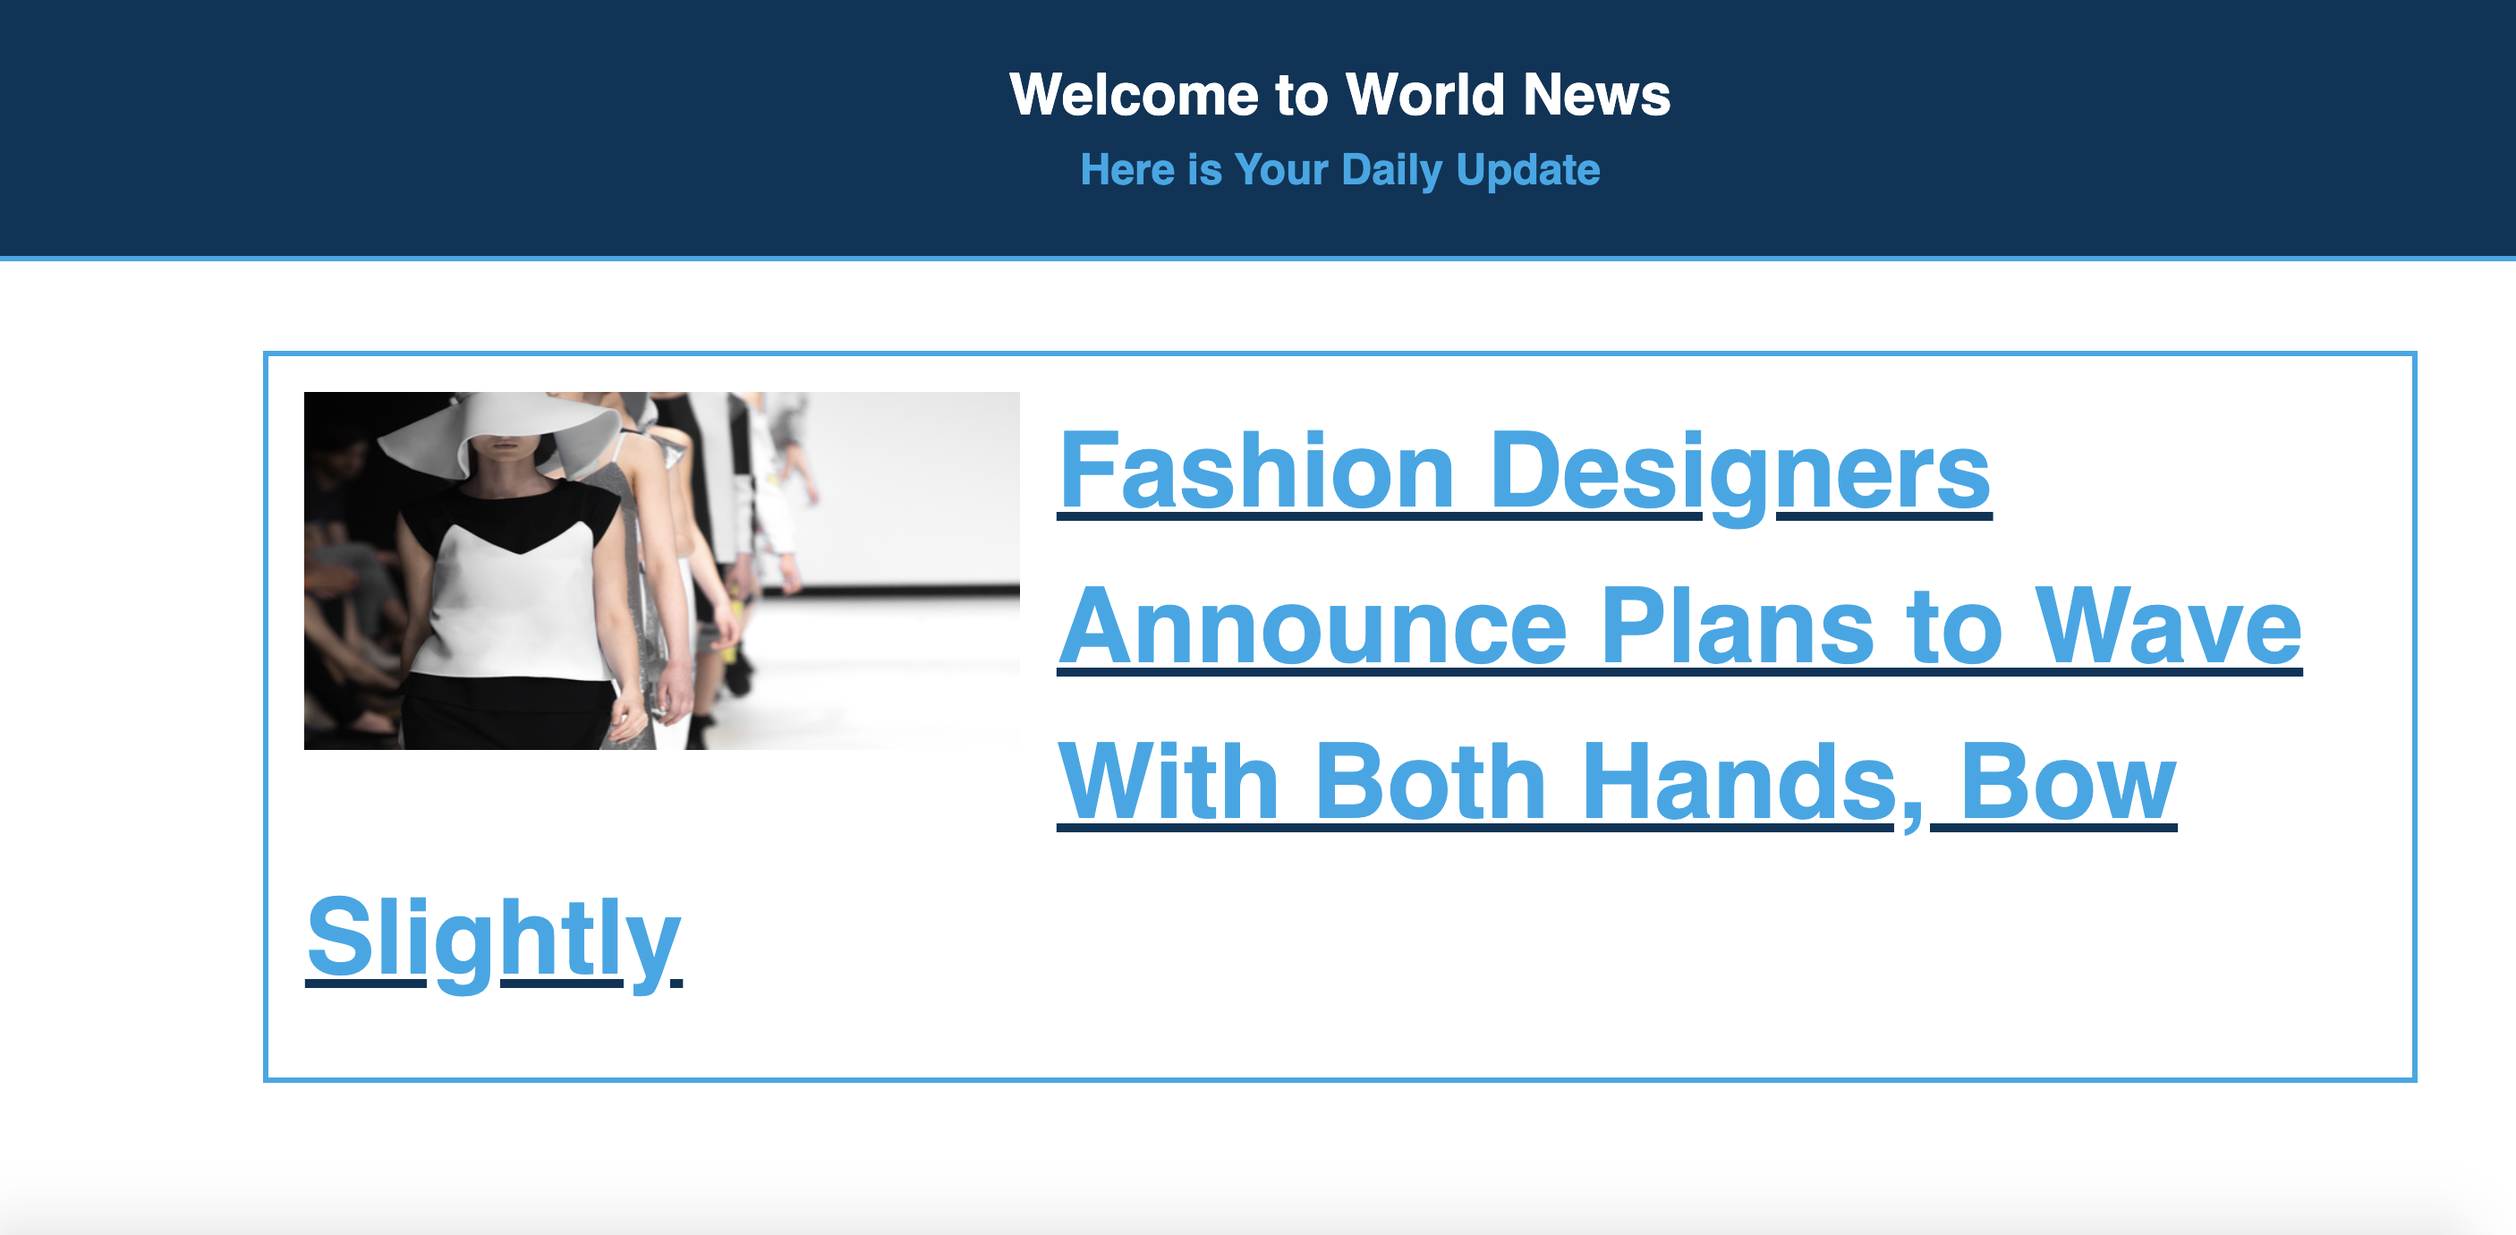
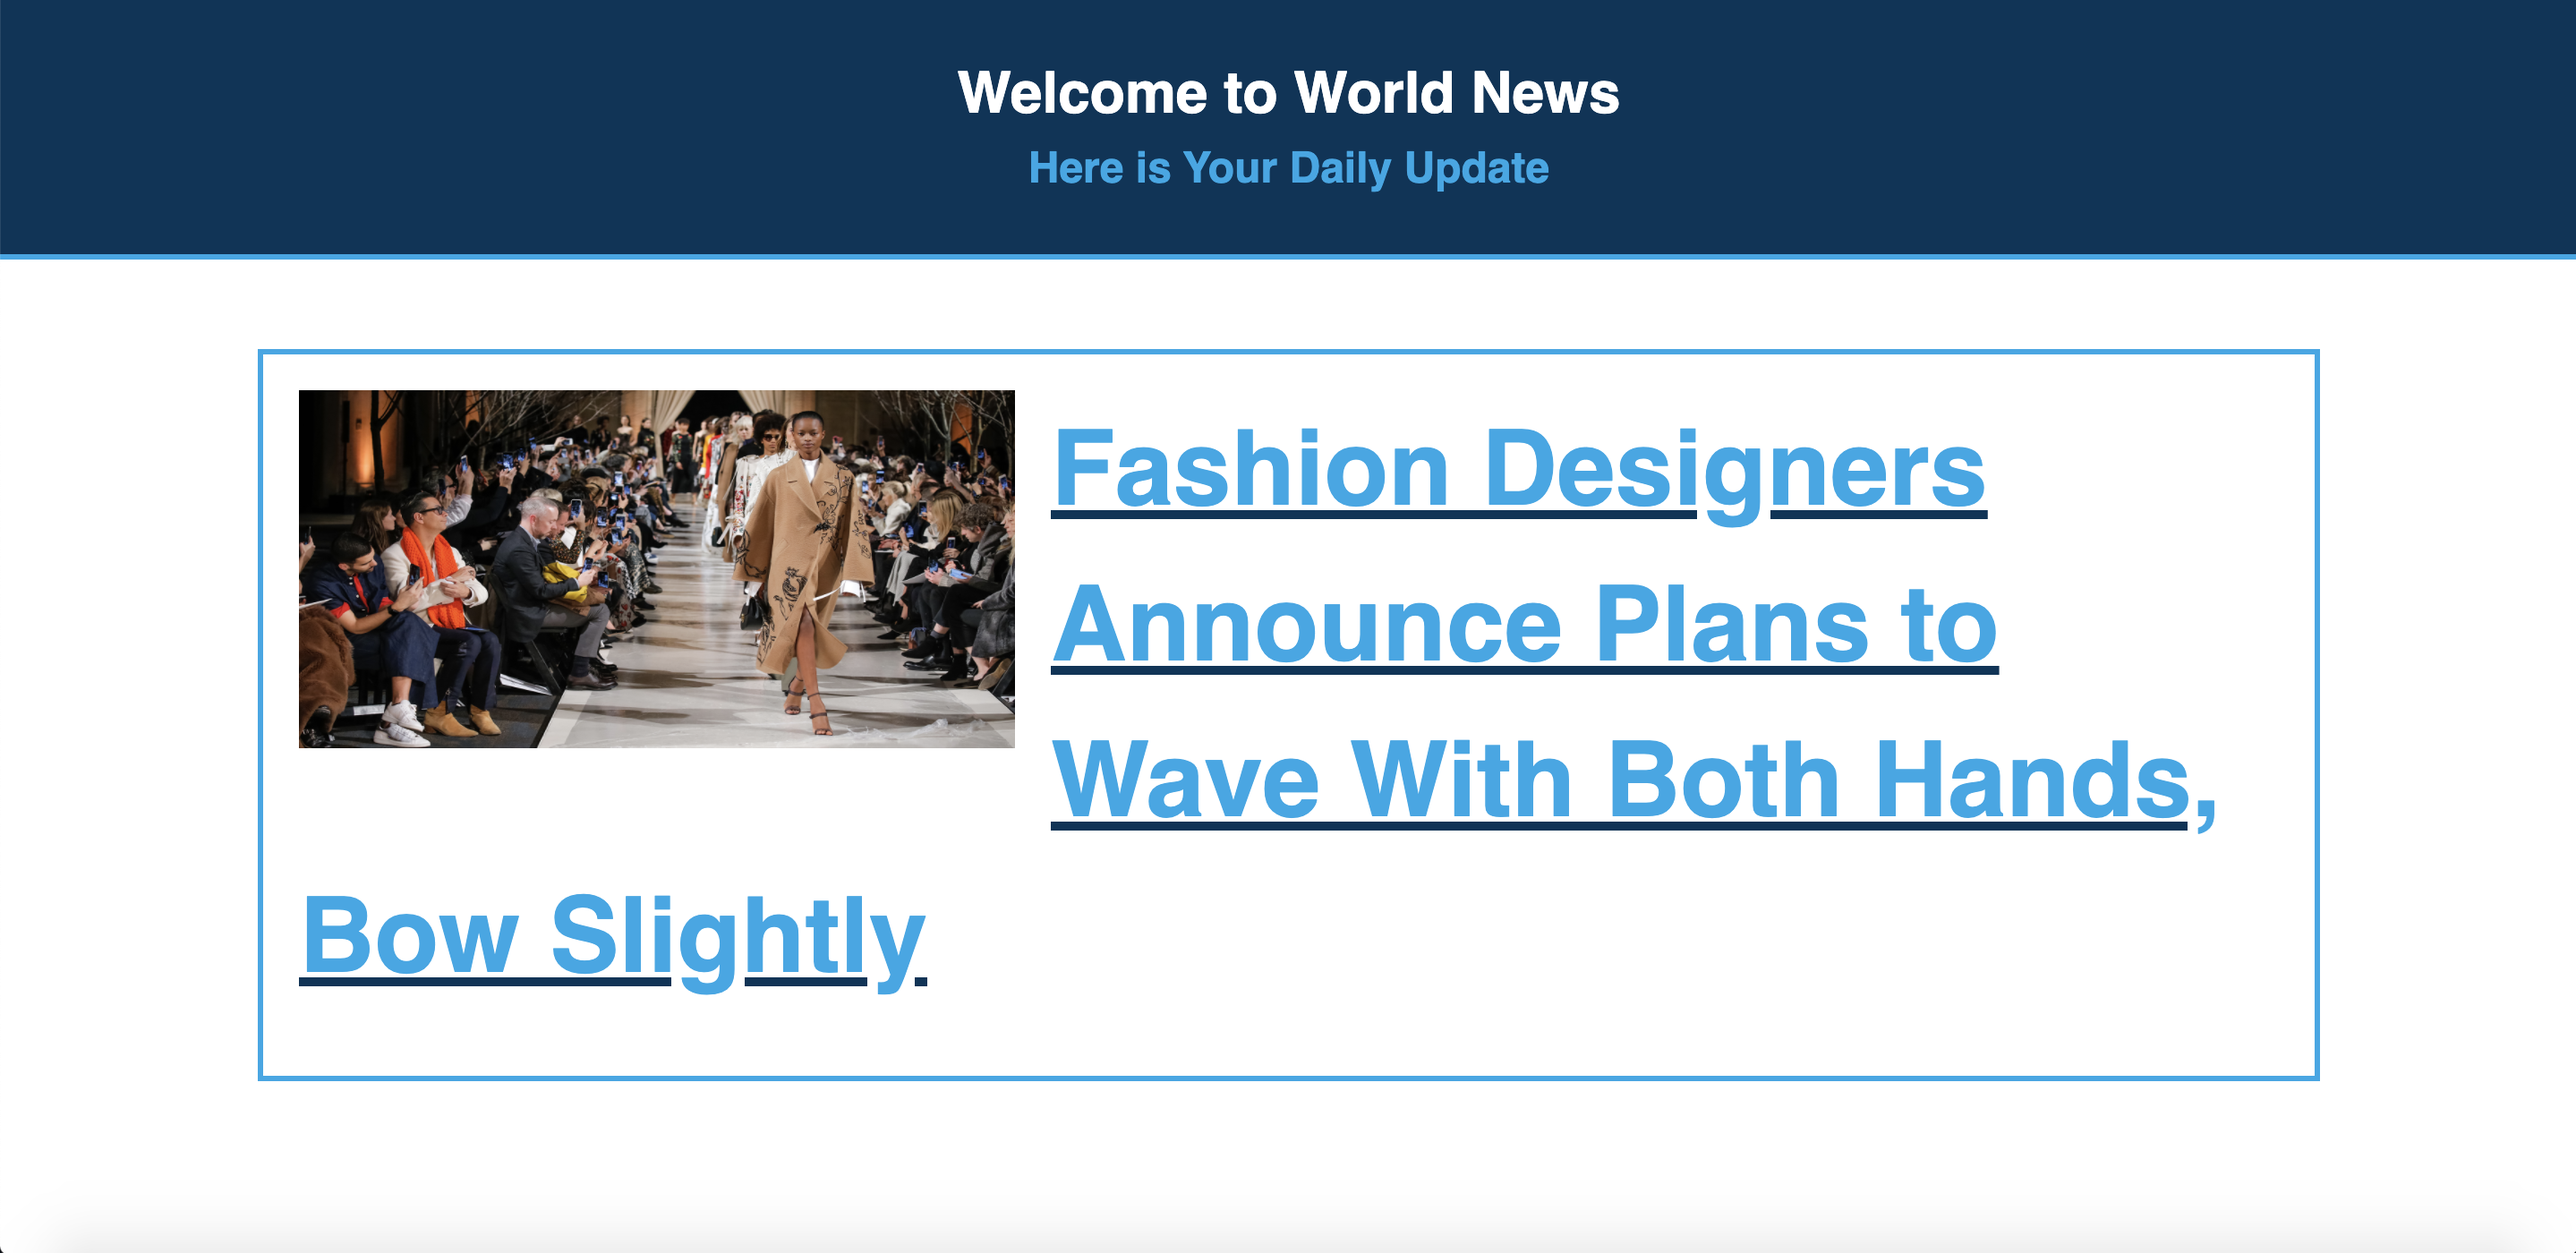
Fix screenshot w/ new image

diff --git a/01-Class-Content/04-Web-APIs-dev/01-Activities/04-Stu_Traverse-DOM/Solved/index.html b/01-Class-Content/04-Web-APIs-dev/01-Activities/04-Stu_Traverse-DOM/Solved/index.html
@@ -14,7 +14,7 @@
   </div>
   <div id="articles">
     <article>
-      <img class="fashion" src="images/image_1.jpg" alt="fashion show">
+      <img class="fashion" src="images/image_1.png" alt ="fashion show">
       <h3 class="artTitle">Fashion Designers Announce Plans to Wave With Both Hands, Bow Slightly</h3>
     </article>
   </div>
